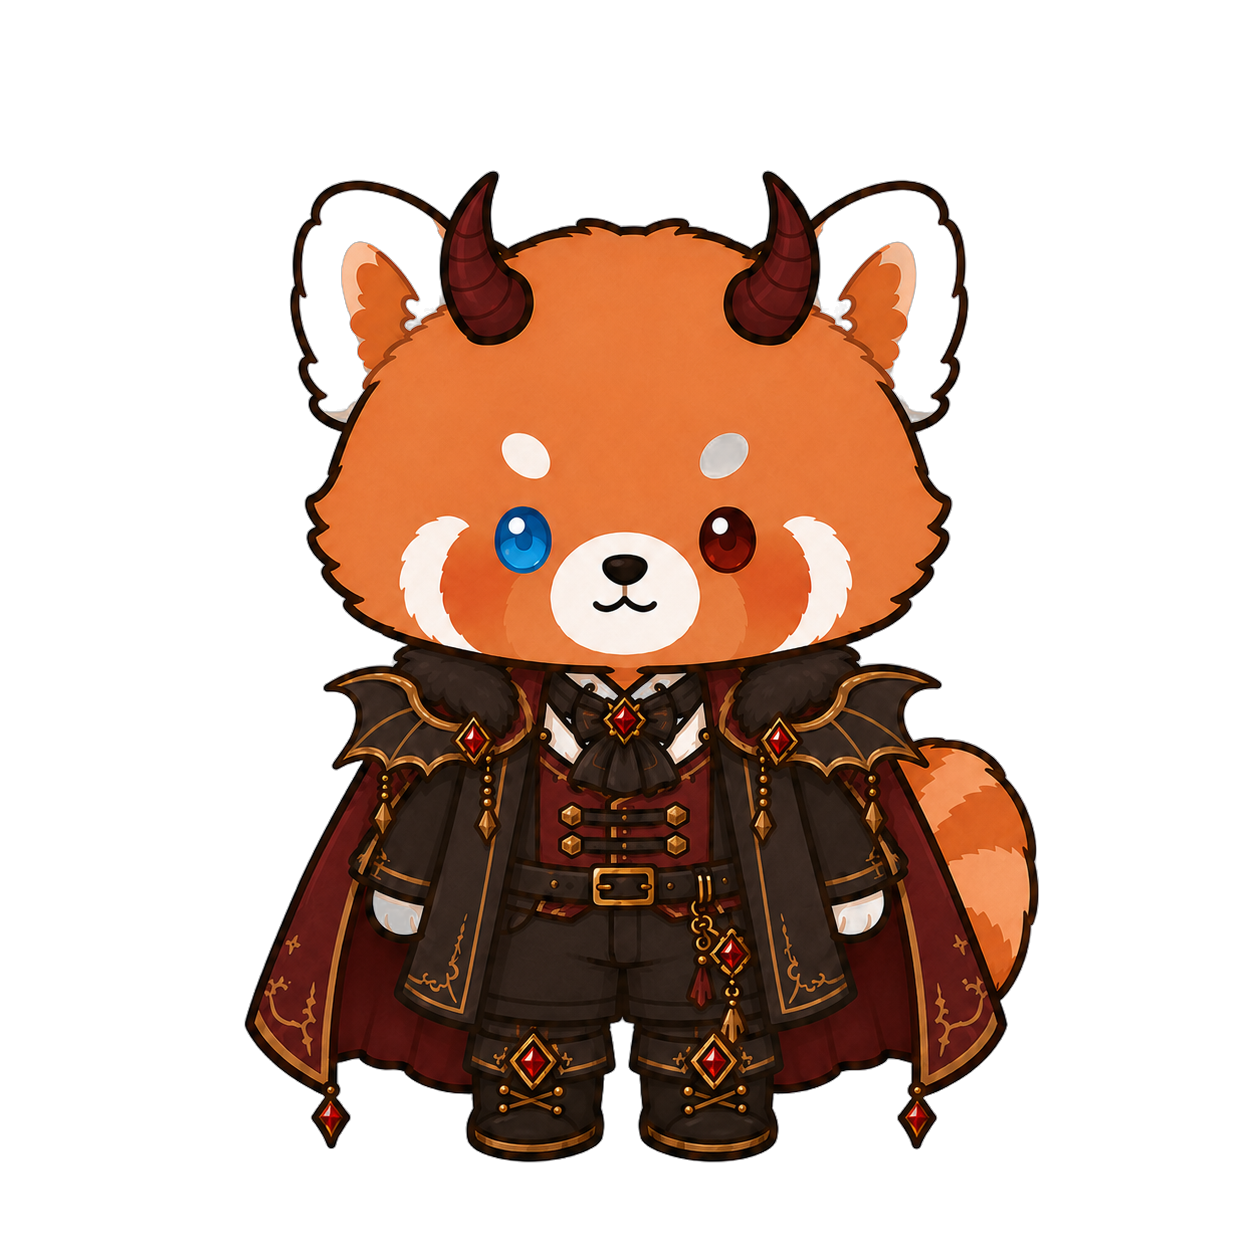
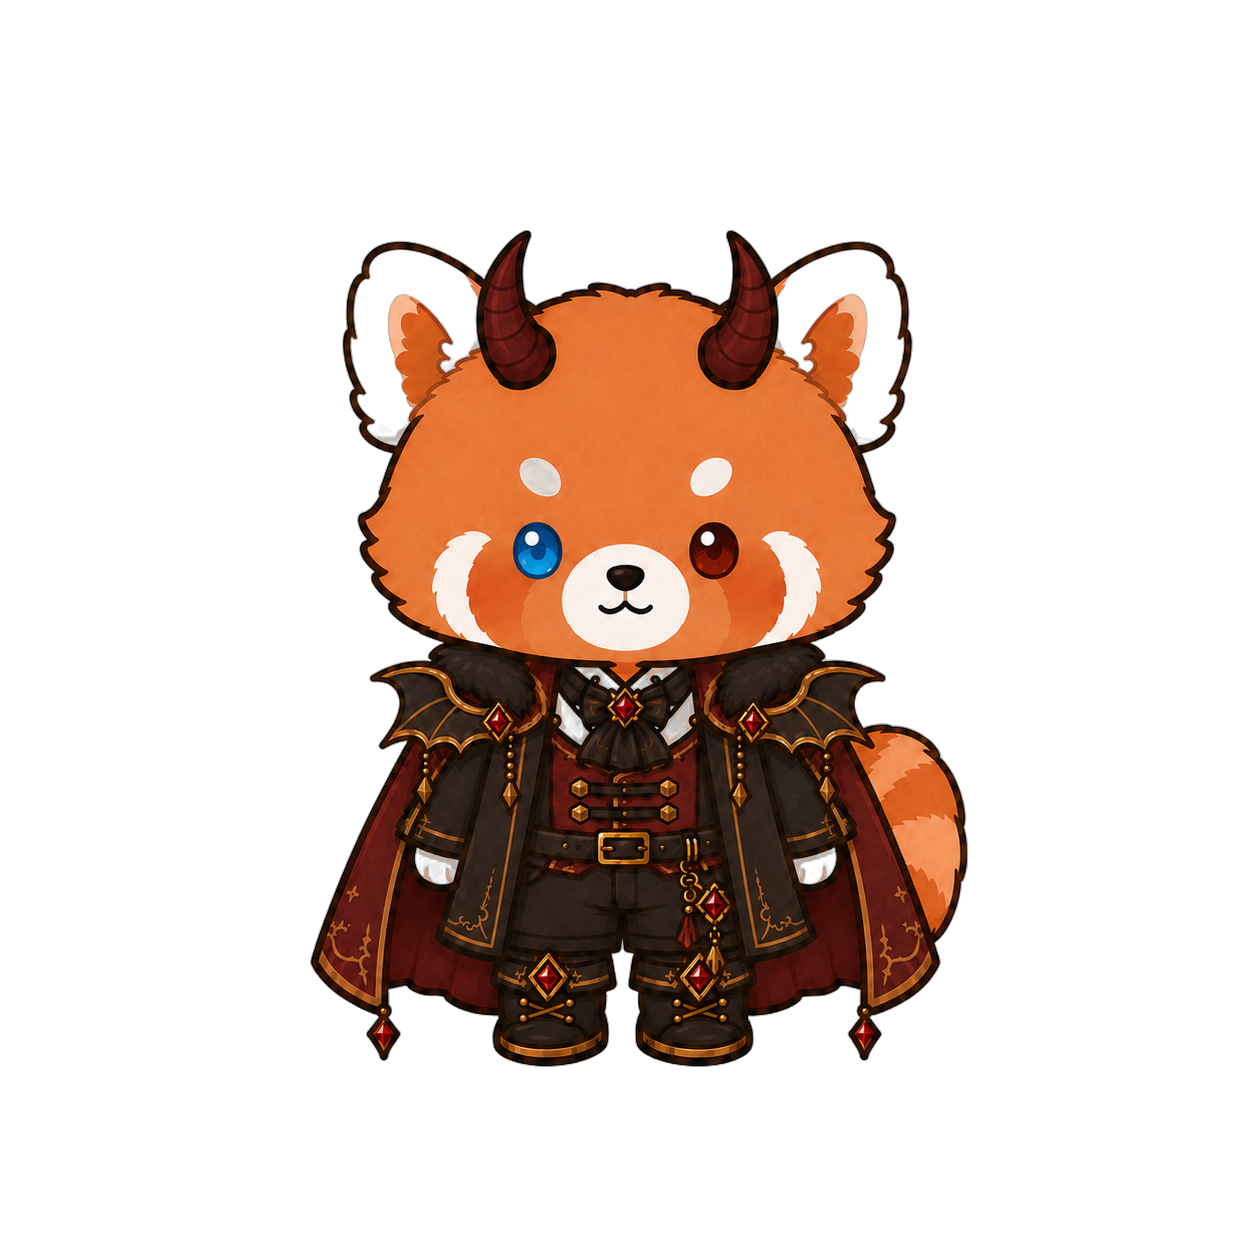
fix(cocoa): swap Aki demon art + re-measure metrics
New demon illustration; regenerated FIGURE_METRICS so it renders at the
same normalized height as Aki's other skins.

Changed region(s): [[0.1866, 0.1244, 0.8397, 0.933], [0.6842, 0.1244, 0.7464, 0.1555]]

diff --git a/src/constants/figure-calibration.ts b/src/constants/figure-calibration.ts
@@ -13,7 +13,7 @@ export const FIGURE_METRICS: Record<string, { fill: number; pad: number }> = {
   'companion_bunny/jiraikei': { fill: 0.8190, pad: 0.0750 },
   'companion_bunny/palace': { fill: 0.9370, pad: 0.0407 },
   'companion_cocoa/classic': { fill: 0.8876, pad: 0.0598 },
-  'companion_cocoa/demon': { fill: 0.7919, pad: 0.0726 },
+  'companion_cocoa/demon': { fill: 0.6675, pad: 0.1491 },
   'companion_cocoa/relax': { fill: 0.6372, pad: 0.1507 },
   'companion_honey/champion': { fill: 0.8325, pad: 0.0845 },
   'companion_honey/classic': { fill: 0.9537, pad: 0.0255 },
